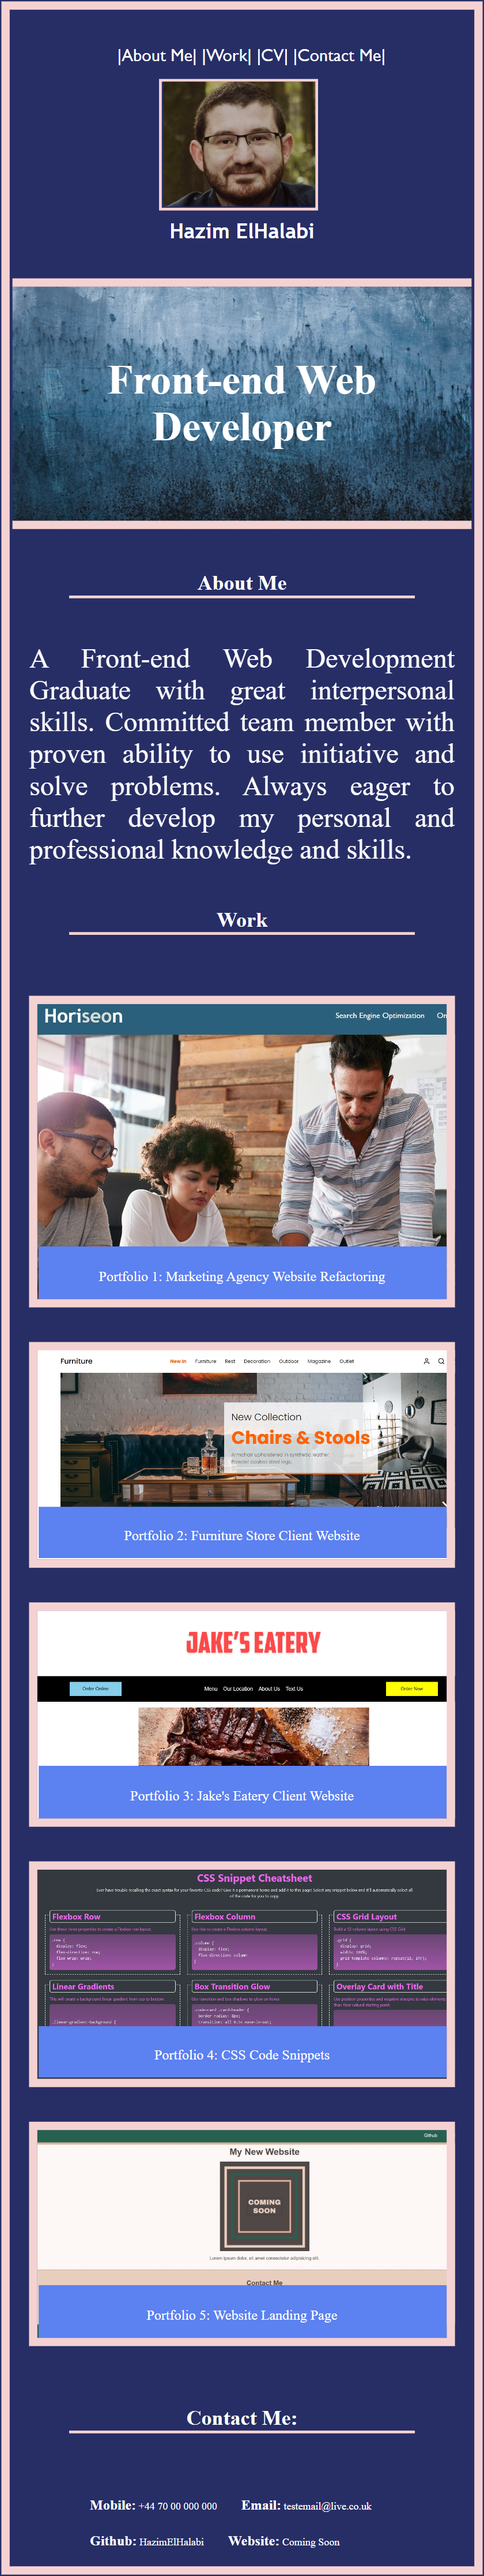
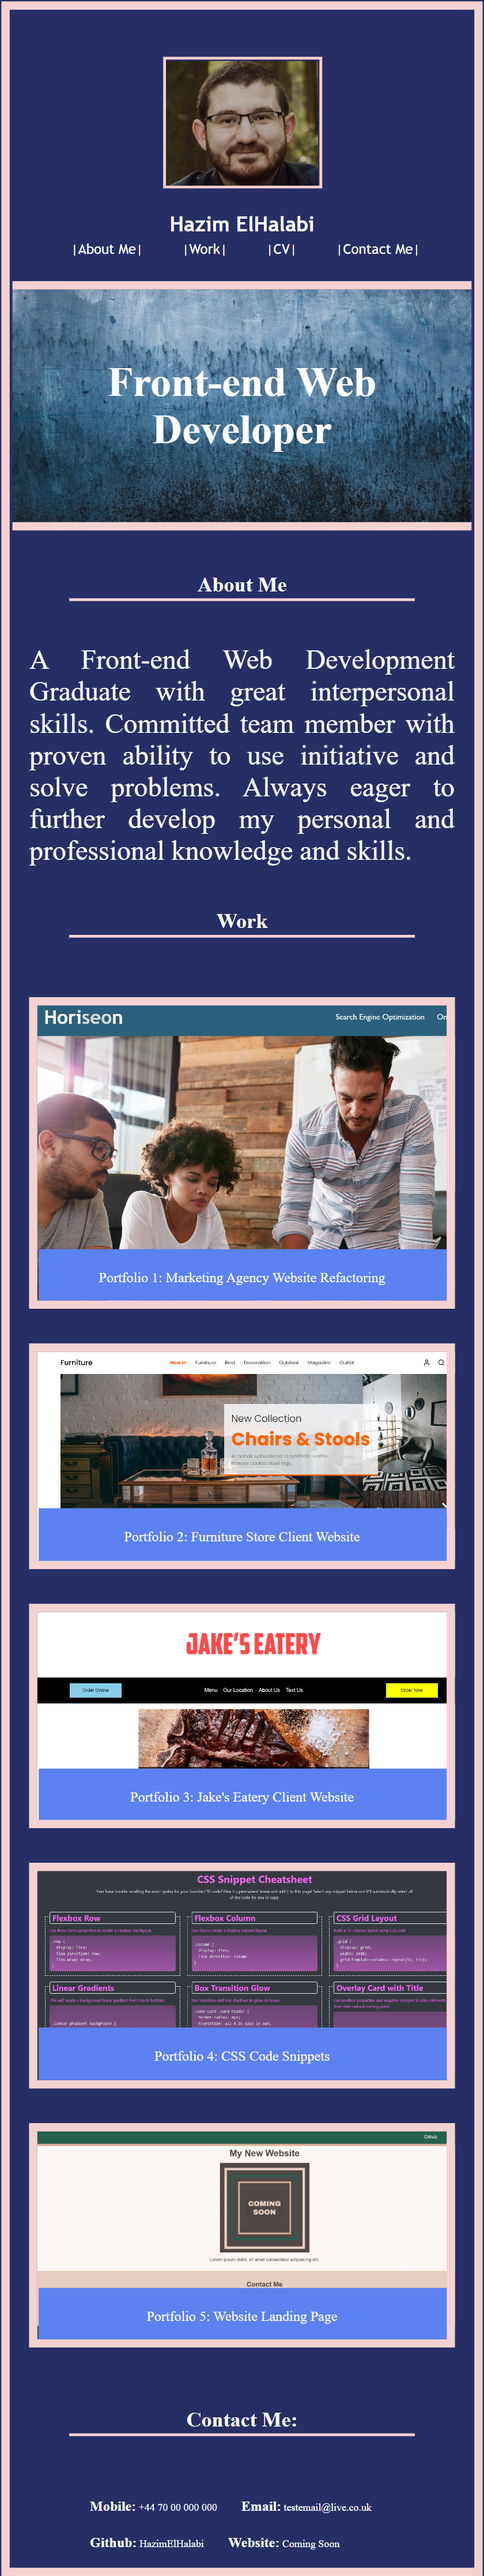
Code refactoring

diff --git a/css/style.css b/css/style.css
@@ -7,6 +7,8 @@ body {
   --border: rgb(245, 210, 210);
 }
 header {
+  color: white;
+  text-align: center;
   padding: 5px;
   font-family: 'Trebuchet MS', 'Lucida Sans Unicode', 'Lucida Grande', 'Lucida Sans', Arial, sans-serif;
   border-bottom: 5px solid var(--border);  
@@ -14,22 +16,13 @@ header {
 #bio-image {
   width: 200px;
   height: auto;
-  display: block;
-  margin: 5px 0px 0px 600px;
+  margin: 5px;
   border: 2px solid var(--border);
 }
-h1 {
-  margin: 5px 0px 0px 280px;
-  color: white;
-  text-align: center;
-  font-size: 24px;
-}
 nav {
-  padding-top: 200px;
+  margin-top: -25px;
   margin-right: 15px;
   float: right;
-  font-family: 'Gill Sans', 'Gill Sans MT', Calibri, 'Trebuchet MS', sans-serif;
-  font-size: 20px;
 }
 .hero-banner {
   background-image: url(../images/Hero\ Tag.jpg);
@@ -134,8 +127,7 @@ a:hover {
   transition: 0.3s;
 }
 #work :hover {
-    border: white;
-    color: white;
+    border: 5px solid var(--border);
     padding: 5px;
     text-align: center;
     font-size: 16px;
@@ -147,16 +139,18 @@ a:hover {
     margin: 1px;
     padding: 1px;
   }
-  nav {
-    padding: 5px 30px 5px 10px;
+  nav a {
+    padding: 10px;
+    justify-content: space-between;
   }
   #bio-image {
-    margin: 5px 5px 5px 40px;
+    margin: 5px;
     height: 50%;
     width: 50%;
   }
   h1 {
-    margin: 5px 5px 0px 5px;
+    margin: 5px;
+    padding: 0px 5px 5px 5px;
     font-size: 75%;
   }
   h3 {

diff --git a/index.html b/index.html
@@ -12,16 +12,16 @@
 <body>
   <!-- main logo / nav -->
   <header>
+    <figure>
+      <img id="bio-image" src="./images/Profile Picture.jpg" alt="Hazim ElHalabi">
+      <figcaption><h1><b>Hazim ElHalabi</b></h1></figcaption>
+    </figure>
       <nav>
         <a href="#about"> |About Me| </a>
         <a href="#work"> |Work| </a>
         <a href="#cv"> |CV| </a>
         <a href="#contact"> |Contact Me| </a>
       </nav>
-      <figure>
-        <img id="bio-image" src="./images/Profile Picture.jpg" alt="Hazim ElHalabi">
-        <figcaption><h1><b>Hazim ElHalabi</b></h1></figcaption>
-      </figure>
   </header>
    <!-- hero banner -->
    <section class="hero-banner">
